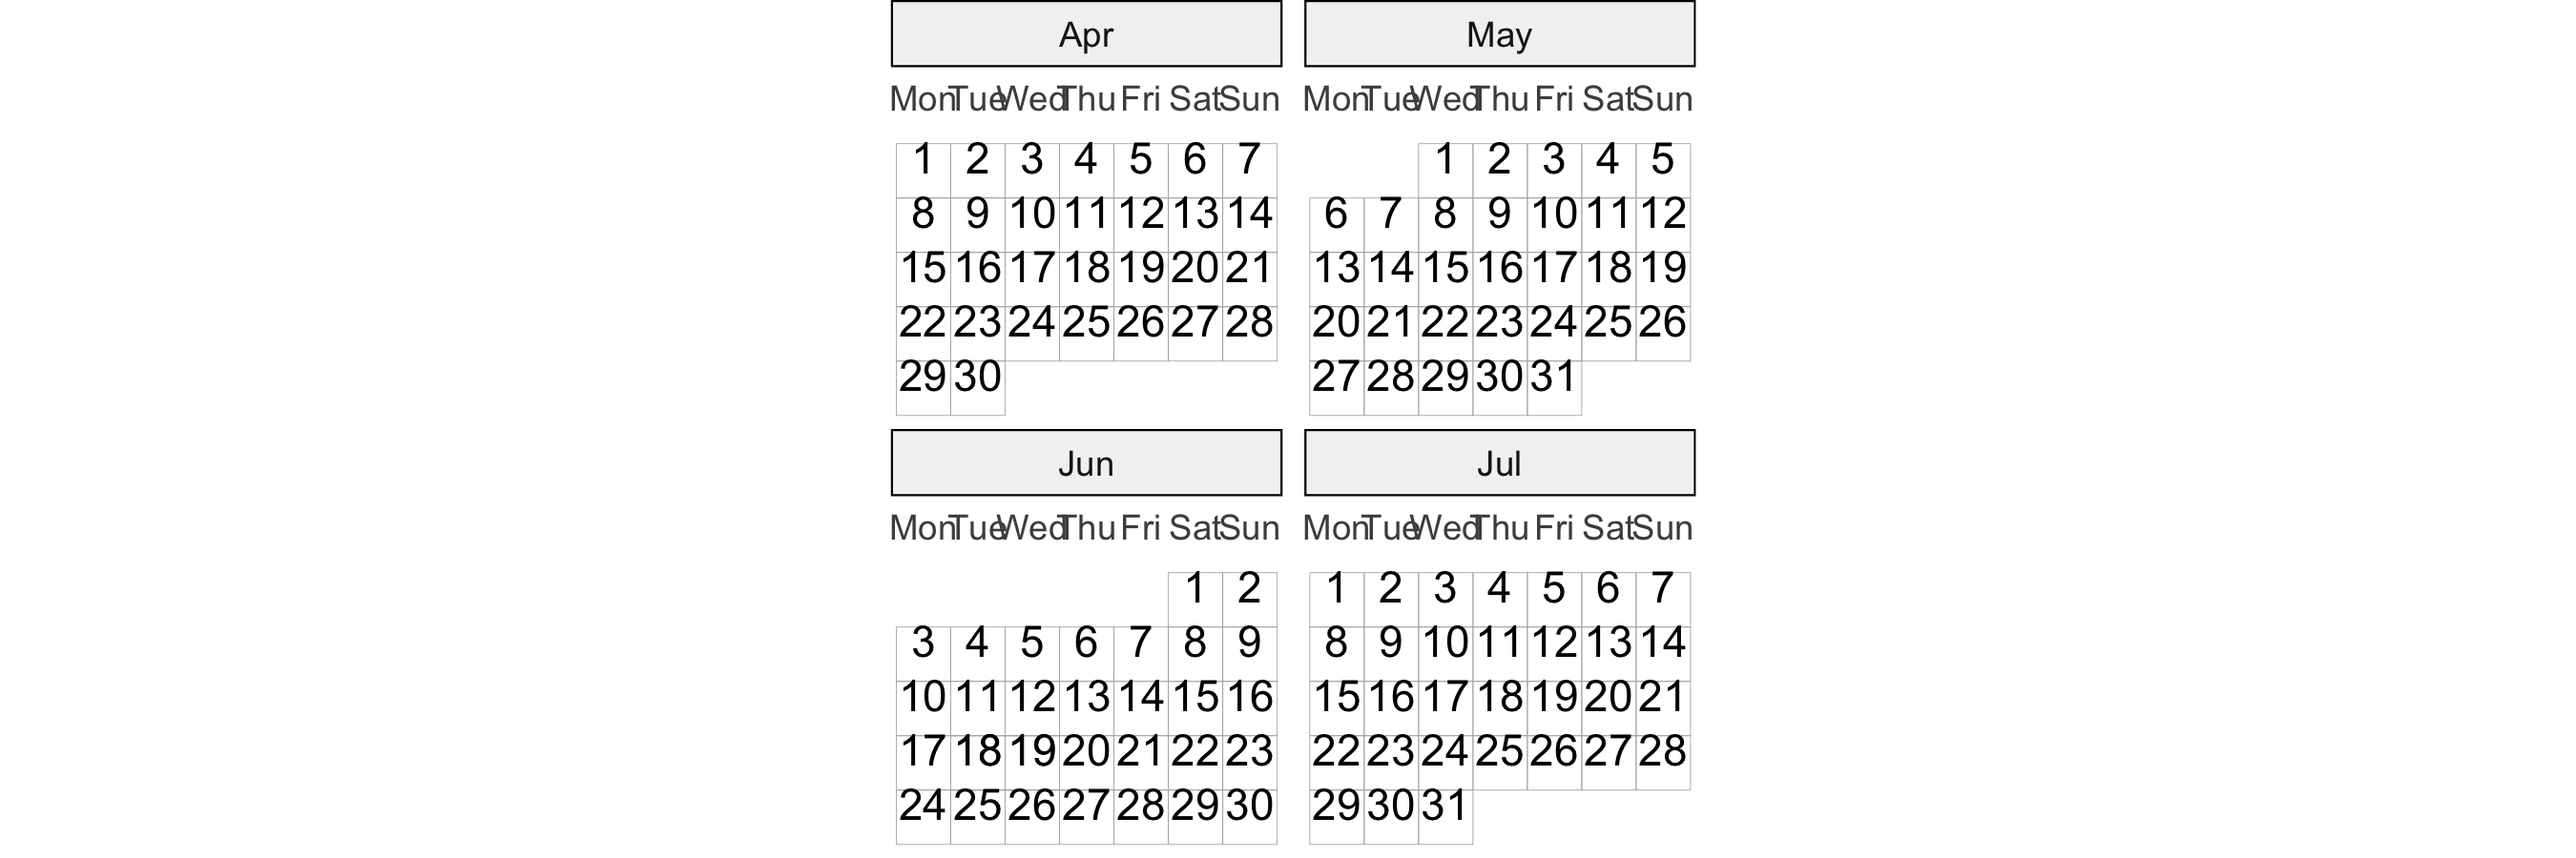
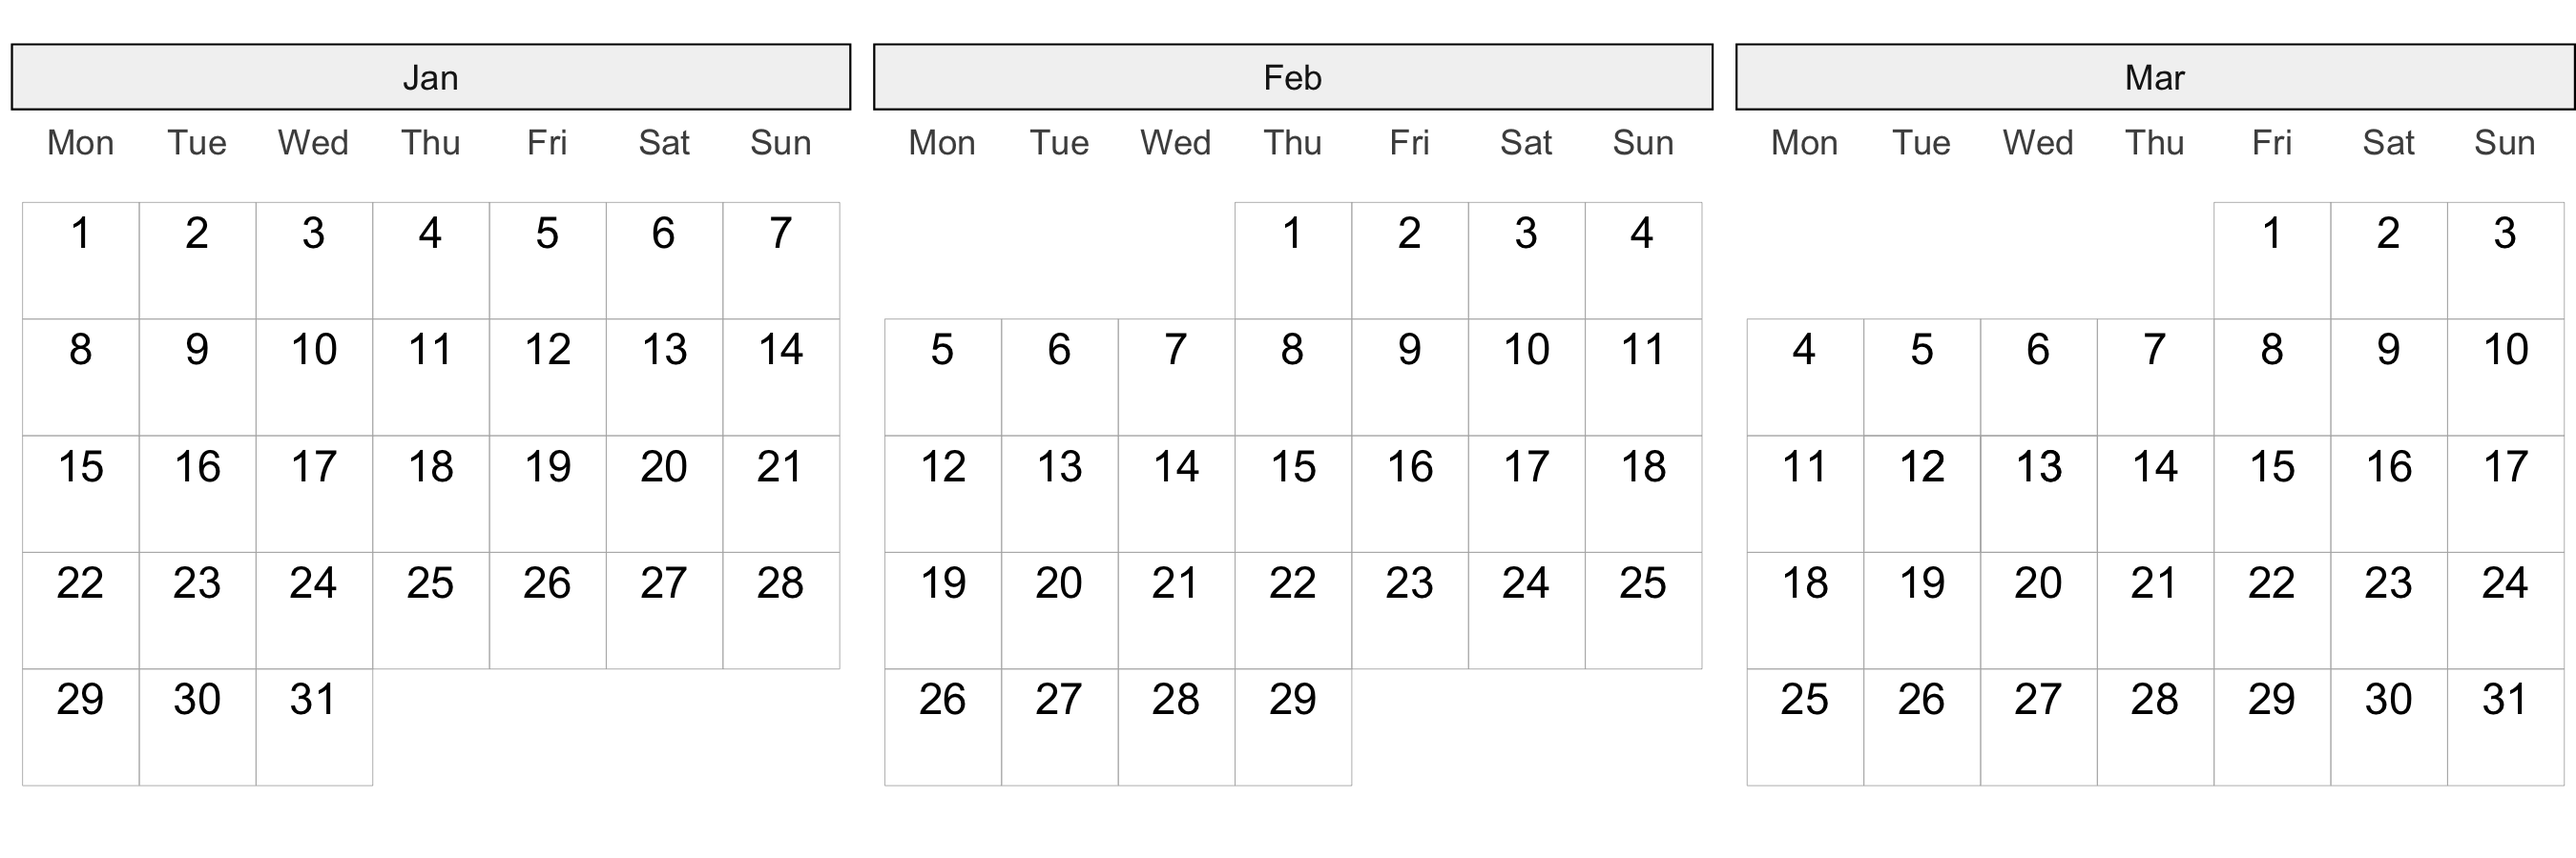
update DESCRIPTION, README & pkgdown site
- fix typo in README
- add github link to DESCRIPTION & pkgdown
- add orcid

diff --git a/README.md b/README.md
@@ -18,7 +18,7 @@ You can install the development version of ggtilecal like so:
 
 ``` r
 # install.packages("remotes")
-remotes::install_github("cynthiahqy/ggtilecal)
+remotes::install_github("cynthiahqy/ggtilecal")
 ```
 
 ## Examples
@@ -65,44 +65,42 @@ refers to having one row per day of an event.
 
 ``` r
 set.seed(498)
-events <- demo_events(10)
+events <- demo_events(10, date_range=c("2024-01-01", "2024-03-31"))
 events
 #> # A tibble: 10 × 7
 #> # Rowwise: 
 #>    event_id title    start      end        duration emoji details               
-#>       <int> <chr>    <date>     <date>     <drtn>   <chr> <chr>                 
-#>  1        1 Event 1  2024-04-15 2024-04-17 3 days   🐟    Adipiscing mauris et …
-#>  2        2 Event 2  2024-04-23 2024-04-24 2 days   🐩    Sit aliquam feugiat p…
-#>  3        3 Event 3  2024-05-01 2024-05-01 1 days   🐨    Lorem placerat sagitt…
-#>  4        4 Event 4  2024-05-30 2024-06-04 6 days   🐚    Ipsum mollis fermentu…
-#>  5        5 Event 5  2024-06-10 2024-06-10 1 days   🦟    Consectetur malesuada…
-#>  6        6 Event 6  2024-06-17 2024-06-22 6 days   🐛    Sit bibendum porta ut…
-#>  7        7 Event 7  2024-06-18 2024-06-23 6 days   🦣    Lorem cursus sem cubi…
-#>  8        8 Event 8  2024-06-20 2024-06-24 5 days   🦖    Adipiscing fames magn…
-#>  9        9 Event 9  2024-06-22 2024-06-23 2 days   🐣    Amet ligula sociis ve…
-#> 10       10 Event 10 2024-07-02 2024-07-07 6 days   🐈⬛    Sit ridiculus id maec…
+#>       <int> <chr>    <date>     <date>        <int> <chr> <chr>                 
+#>  1        1 Event 1  2024-01-08 2024-01-10        3 🐟    Adipiscing mauris et …
+#>  2        2 Event 2  2024-01-16 2024-01-17        2 🐩    Sit aliquam feugiat p…
+#>  3        3 Event 3  2024-01-24 2024-01-24        1 🐨    Lorem placerat sagitt…
+#>  4        4 Event 4  2024-02-22 2024-02-27        6 🐚    Ipsum mollis fermentu…
+#>  5        5 Event 5  2024-03-04 2024-03-04        1 🦟    Consectetur malesuada…
+#>  6        6 Event 6  2024-03-11 2024-03-16        6 🐛    Sit bibendum porta ut…
+#>  7        7 Event 7  2024-03-12 2024-03-17        6 🦣    Lorem cursus sem cubi…
+#>  8        8 Event 8  2024-03-14 2024-03-18        5 🦖    Adipiscing fames magn…
+#>  9        9 Event 9  2024-03-16 2024-03-17        2 🐣    Amet ligula sociis ve…
+#> 10       10 Event 10 2024-03-26 2024-03-31        6 🐈⬛    Sit ridiculus id maec…
 ```
 
 ``` r
 events_long <- events |>
   reframe_events(start, end) |>
   dplyr::slice_min(order_by = duration, n = 1, by = unit_date)
-#> Reframing using grouping by: `event_id`, `title`, `duration`, `emoji`, and
-#> `details`
 events_long
 #> # A tibble: 29 × 6
 #>    event_id title   duration emoji details                            unit_date 
-#>       <int> <chr>   <drtn>   <chr> <chr>                              <date>    
-#>  1        1 Event 1 3 days   🐟    Adipiscing mauris et augue dapibu… 2024-04-15
-#>  2        1 Event 1 3 days   🐟    Adipiscing mauris et augue dapibu… 2024-04-16
-#>  3        1 Event 1 3 days   🐟    Adipiscing mauris et augue dapibu… 2024-04-17
-#>  4        2 Event 2 2 days   🐩    Sit aliquam feugiat primis duis s… 2024-04-23
-#>  5        2 Event 2 2 days   🐩    Sit aliquam feugiat primis duis s… 2024-04-24
-#>  6        3 Event 3 1 days   🐨    Lorem placerat sagittis vehicula … 2024-05-01
-#>  7        4 Event 4 6 days   🐚    Ipsum mollis fermentum in risus r… 2024-05-30
-#>  8        4 Event 4 6 days   🐚    Ipsum mollis fermentum in risus r… 2024-05-31
-#>  9        4 Event 4 6 days   🐚    Ipsum mollis fermentum in risus r… 2024-06-01
-#> 10        4 Event 4 6 days   🐚    Ipsum mollis fermentum in risus r… 2024-06-02
+#>       <int> <chr>      <int> <chr> <chr>                              <date>    
+#>  1        1 Event 1        3 🐟    Adipiscing mauris et augue dapibu… 2024-01-08
+#>  2        1 Event 1        3 🐟    Adipiscing mauris et augue dapibu… 2024-01-09
+#>  3        1 Event 1        3 🐟    Adipiscing mauris et augue dapibu… 2024-01-10
+#>  4        2 Event 2        2 🐩    Sit aliquam feugiat primis duis s… 2024-01-16
+#>  5        2 Event 2        2 🐩    Sit aliquam feugiat primis duis s… 2024-01-17
+#>  6        3 Event 3        1 🐨    Lorem placerat sagittis vehicula … 2024-01-24
+#>  7        4 Event 4        6 🐚    Ipsum mollis fermentum in risus r… 2024-02-22
+#>  8        4 Event 4        6 🐚    Ipsum mollis fermentum in risus r… 2024-02-23
+#>  9        4 Event 4        6 🐚    Ipsum mollis fermentum in risus r… 2024-02-24
+#> 10        4 Event 4        6 🐚    Ipsum mollis fermentum in risus r… 2024-02-25
 #> # ℹ 19 more rows
 ```
 
@@ -121,7 +119,6 @@ But maybe we want to indicate which days are event days:
 emoji_cal <- events_long |>
   gg_facet_wrap_months(unit_date) +
   geom_text(aes(label = emoji), nudge_y = -0.25, na.rm = TRUE)
-
 emoji_cal
 ```
 
